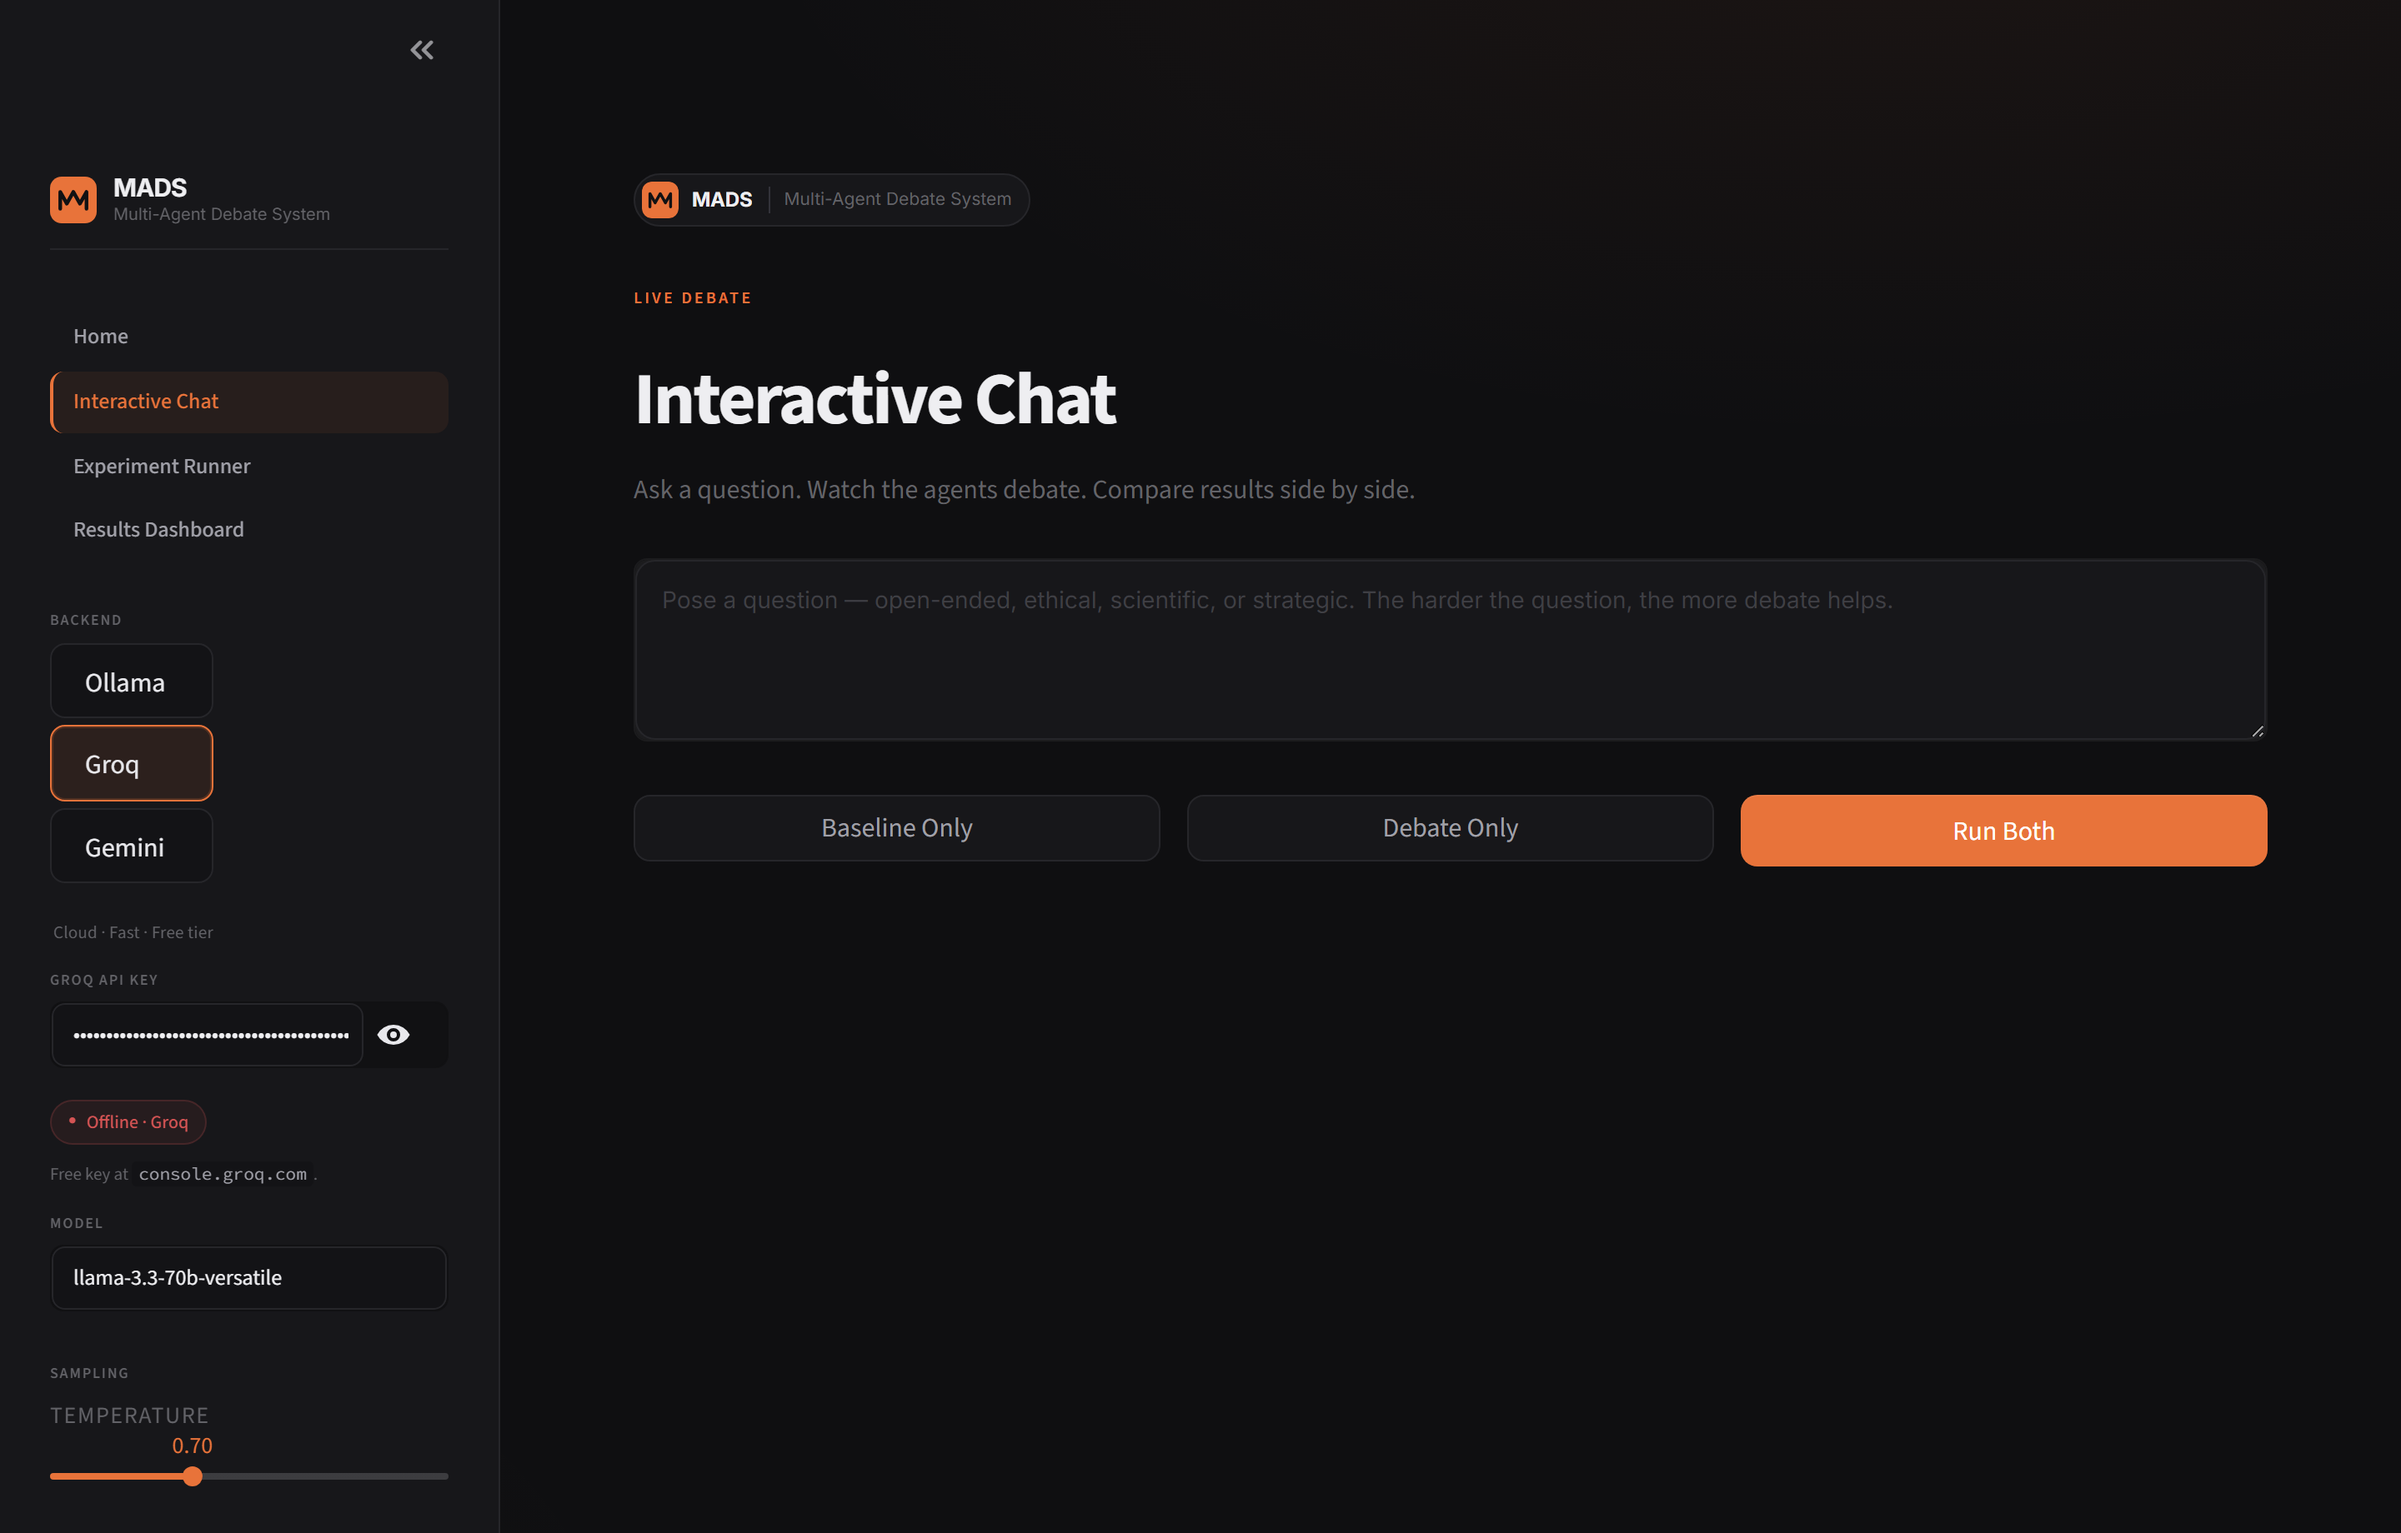
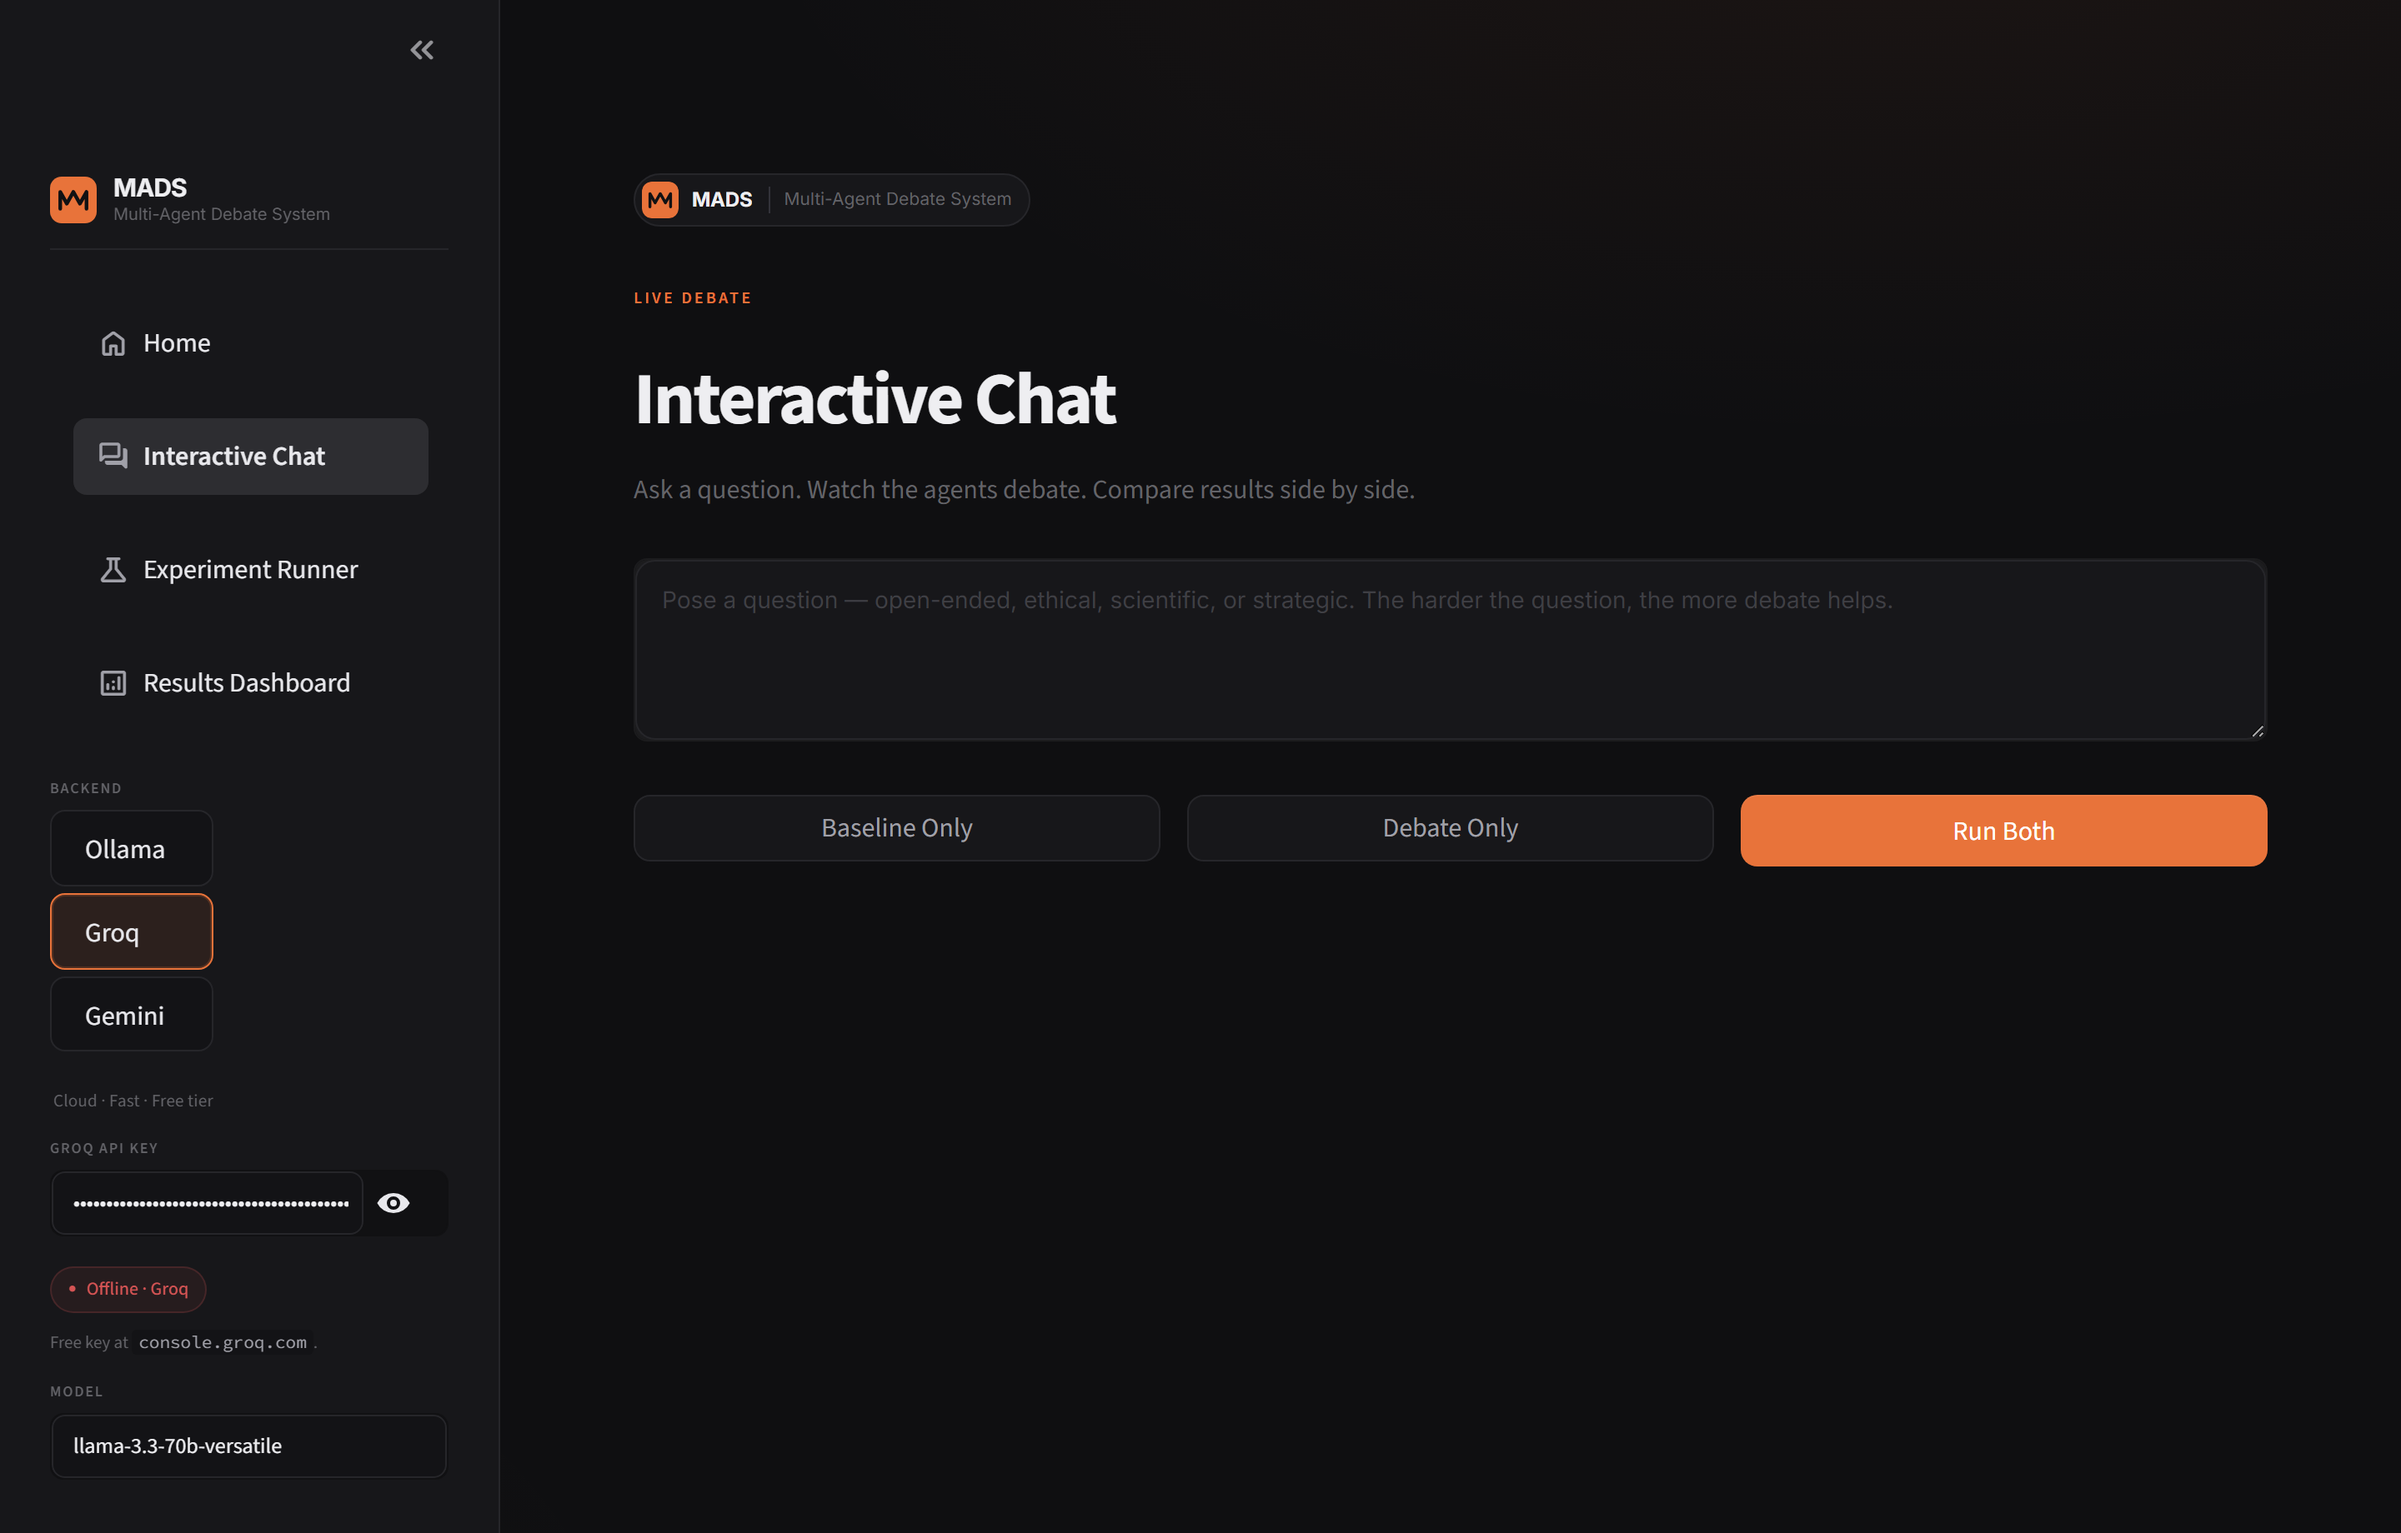
Seamless tab navigation: st.page_link + context-aware Ollama hint
The previous HTML-anchor sidebar nav forced a full browser page
reload on every tab click, which produced the white flash the user
flagged. Switched back to `st.page_link`, which uses Streamlit's
History-API-based router and reruns only the new page's script —
no document reload, no flash. Verified with Playwright: clicking
between three pages produces just one document load total (the
initial one).

`st.page_link` previously broke the deploy because the home link
needs the literal entry-script name, which is `Home.py` locally
but `app.py` on the existing Streamlit Cloud deployment. Solved
with `_try_page_link(*paths, ...)` that probes "Home.py", "app.py",
"streamlit_app.py" in order and uses the first one that resolves.
The sub-page links (`pages/*.py`) are deterministic across
entry-script names so they go through directly.

Also made the Ollama "offline" hint context-aware. Previously it
unconditionally said "run `ollama serve`, then `ollama pull
llama3.2:1b`" — but on the Cloud deploy that advice is false (the
Cloud sandbox can't host an Ollama daemon). When a Gemini or Groq
key is configured (the unambiguous Cloud signal), the hint now
says "Ollama can't run on Streamlit Cloud — switch to Gemini or
Groq above". Local users with no cloud key still get the original
hint.

CSS rewrite for the new selectors: `[data-testid="stPageLink"]`
(modern) and `[data-testid="stPageLink-NavLink"]` (legacy) styled
to match the design system, with the active page highlighted in
[…]

diff --git a/core/sidebar.py b/core/sidebar.py
@@ -44,33 +44,61 @@ def _default_model_for(backend_id: str) -> str:
     }[backend_id]
 
 
+def _try_page_link(*paths: str, label: str, icon: str) -> bool:
+    """
+    Try `st.page_link` against each candidate path until one succeeds.
+
+    `st.page_link` raises StreamlitPageNotFoundError when the path
+    isn't a registered page; the entry script's filename varies
+    (`Home.py` locally, `app.py` / `streamlit_app.py` via Cloud
+    shims), so we try them in order and stop on the first hit.
+    """
+    for path in paths:
+        try:
+            st.page_link(path, label=label, icon=icon)
+            return True
+        except Exception:
+            continue
+    return False
+
+
 def _nav(active: str | None = None) -> None:
     """
-    Render the four sidebar nav links as plain HTML anchors.
+    Render the four sidebar nav links via `st.page_link`.
 
-    Plain anchors go through Streamlit's URL router and therefore work
-    no matter which entry script is registered (`Home.py`, `app.py`,
-    or `streamlit_app.py`). `st.page_link` cannot do this — it
-    validates the script-path argument against Streamlit's registered
-    pages, which fails when the entry is the `app.py` shim.
+    Using Streamlit's native page-link widget gives us **client-side
+    routing**: clicking a link reruns the new page's script in place
+    instead of forcing a full browser reload, which eliminates the
+    white flash users saw between tabs with plain HTML anchors.
 
-    `active` is one of "home" | "chat" | "runner" | "dashboard"; pass
-    `None` (default) to skip the active-state styling.
+    The home link is the awkward one — its path depends on whichever
+    entry script Streamlit was launched with. We probe `Home.py`,
+    `app.py`, and `streamlit_app.py` in order and use the first one
+    that resolves, so the same code works under any of the three
+    entry filenames.
+
+    `active` (one of "home" | "chat" | "runner" | "dashboard") is
+    accepted for API stability with the previous anchor-based nav,
+    but Streamlit highlights the current page on its own — we just
+    pass it through.
     """
-    items = [
-        ("home",      "/",                    "Home"),
-        ("chat",      "/Interactive_Chat",    "Interactive Chat"),
-        ("runner",    "/Experiment_Runner",   "Experiment Runner"),
-        ("dashboard", "/Results_Dashboard",   "Results Dashboard"),
-    ]
-    parts = ['<nav class="m-nav">']
-    for key, href, label in items:
-        cls = "m-nav-item" + (" m-nav-active" if key == active else "")
-        parts.append(
-            f'<a class="{cls}" href="{href}" target="_self">{label}</a>'
-        )
-    parts.append("</nav>")
-    st.sidebar.markdown("".join(parts), unsafe_allow_html=True)
+    del active  # Streamlit handles aria-current on its own.
+    _try_page_link(
+        "Home.py", "app.py", "streamlit_app.py",
+        label="Home", icon=":material/home:",
+    )
+    st.page_link(
+        "pages/1_Interactive_Chat.py",
+        label="Interactive Chat", icon=":material/forum:",
+    )
+    st.page_link(
+        "pages/2_Experiment_Runner.py",
+        label="Experiment Runner", icon=":material/science:",
+    )
+    st.page_link(
+        "pages/3_Results_Dashboard.py",
+        label="Results Dashboard", icon=":material/analytics:",
+    )
 
 
 def _smart_default_backend() -> str:
@@ -175,10 +203,22 @@ def render_sidebar(active_page: str | None = None) -> dict:
 
         if not connected:
             if backend_id == "ollama":
-                sidebar_hint(
-                    f"Run <code>ollama serve</code>, then "
-                    f"<code>ollama pull {OLLAMA_FAST_MODEL}</code>."
-                )
+                # Context-aware: if a cloud key is configured we're
+                # almost certainly running on Streamlit Cloud, where
+                # Ollama can never connect. Tell the user to switch
+                # backend rather than to start a daemon they can't run.
+                if GEMINI_API_KEY or GROQ_API_KEY:
+                    sidebar_hint(
+                        "Ollama needs a daemon on the same machine as "
+                        "the app — it can't run on Streamlit Cloud. "
+                        "Switch to <strong>Gemini</strong> or "
+                        "<strong>Groq</strong> above."
+                    )
+                else:
+                    sidebar_hint(
+                        f"Run <code>ollama serve</code>, then "
+                        f"<code>ollama pull {OLLAMA_FAST_MODEL}</code>."
+                    )
             elif backend_id == "groq":
                 sidebar_hint("Free key at <code>console.groq.com</code>.")
             else:

diff --git a/core/theme.py b/core/theme.py
@@ -525,33 +525,40 @@ section[data-testid="stSidebar"] [data-testid="stSidebarNavSeparator"] {{
     display: none !important;
 }}
 
-/* Custom anchor-based sidebar nav. Plain <a> instead of st.page_link
-   so the entry-script name (Home.py / app.py / streamlit_app.py)
-   doesn't matter; navigation is done via Streamlit's URL router. */
-section[data-testid="stSidebar"] .m-nav {{
-    display: flex; flex-direction: column; gap: 2px;
-    margin: 4px 0 14px 0;
-}}
-section[data-testid="stSidebar"] .m-nav .m-nav-item,
-section[data-testid="stSidebar"] .m-nav .m-nav-item:visited {{
-    display: block;
-    padding: 8px 12px;
+/* st.page_link nav inside the sidebar.
+   We use page_link instead of plain anchors so navigation is
+   client-side (no full reload, no white flash between tabs).
+   Streamlit emits <a data-testid="stPageLink-NavLink"> so we style
+   that, plus the wider stPageLink testid for older versions. */
+section[data-testid="stSidebar"] [data-testid="stPageLink"],
+section[data-testid="stSidebar"] [data-testid="stPageLink-NavLink"] {{
     border-radius: 8px;
+    padding: 7px 12px !important;
+    margin: 1px 0;
     border-left: 2px solid transparent;
-    font-size: 13px; font-weight: 500;
-    color: {C["text_2"]};
+    font-size: 13px !important;
+    font-weight: 500 !important;
+    color: {C["text_2"]} !important;
     text-decoration: none !important;
     transition: background 0.15s, color 0.15s, border-color 0.15s;
 }}
-section[data-testid="stSidebar"] .m-nav .m-nav-item:hover {{
-    background: {C["bg_hover"]};
-    color: {C["text_1"]};
+section[data-testid="stSidebar"] [data-testid="stPageLink"]:hover,
+section[data-testid="stSidebar"] [data-testid="stPageLink-NavLink"]:hover {{
+    background: {C["bg_hover"]} !important;
+    color: {C["text_1"]} !important;
     text-decoration: none !important;
 }}
-section[data-testid="stSidebar"] .m-nav .m-nav-active {{
+/* Active page — Streamlit sets aria-current="page" on the active link */
+section[data-testid="stSidebar"] [data-testid="stPageLink"][aria-current="page"],
+section[data-testid="stSidebar"] [data-testid="stPageLink-NavLink"][aria-current="page"] {{
     background: {C["accent"]}14 !important;
     color: {C["accent"]} !important;
     border-left-color: {C["accent"]} !important;
+}}
+/* Page-link icons inherit the link colour (so active = accent) */
+section[data-testid="stSidebar"] [data-testid="stPageLink"] [data-testid="stIconMaterial"],
+section[data-testid="stSidebar"] [data-testid="stPageLink-NavLink"] [data-testid="stIconMaterial"] {{
+    color: inherit !important;
 }}
 
 /* Sidebar custom blocks */
